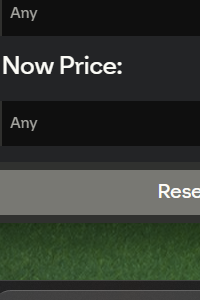
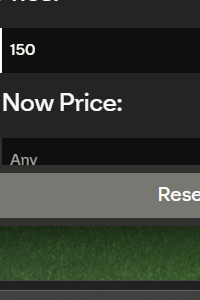
updated because ea changed the website zoom

diff --git a/before_website_change.py b/before_website_change.py
@@ -52,8 +52,8 @@ def main():
 
             time.sleep(get_random_time())
 
-            type_player_button_x = 950
-            type_player_button_y = 420
+            type_player_button_x = 970
+            type_player_button_y = 350
 
             pyautogui.click(type_player_button_x, type_player_button_y)
             pyautogui.typewrite(player_name)
@@ -61,7 +61,7 @@ def main():
             time.sleep(get_random_time())
 
             player_search_button_x = 970
-            player_search_button_y = 480
+            player_search_button_y = 430
 
             pyautogui.click(player_search_button_x, player_search_button_y)
 
@@ -76,37 +76,37 @@ def main():
                 time.sleep(get_random_time())
 
                 select_gold_button_x = 880
-                select_gold_button_y = 600
+                select_gold_button_y = 580
 
                 pyautogui.click(select_gold_button_x, select_gold_button_y)
 
                 time.sleep(get_random_time())
 
                 rarity_button_x = 1080
-                rarity_button_y = 450
+                rarity_button_y = 410
 
                 pyautogui.click(rarity_button_x, rarity_button_y)
 
                 time.sleep(get_random_time())
 
                 select_rare_rarity_button_x = 1080
-                select_rare_rarity_button_y = 550
+                select_rare_rarity_button_y = 540
 
                 pyautogui.click(select_rare_rarity_button_x, select_rare_rarity_button_y)
 
             time.sleep(get_random_time())
 
             minus_button_x = 500
-            minus_button_y = 770
+            minus_button_y = 750
 
             plus_button_x = 950
-            plus_button_y = 770
+            plus_button_y = 750
 
             go_back_button_x = 140
             go_back_button_y = 180
 
             min_bid_price_button_x = 580
-            min_bid_price_button_y = 770
+            min_bid_price_button_y = 750
 
             pyautogui.click(min_bid_price_button_x, min_bid_price_button_y)
             pyautogui.typewrite("150")
@@ -114,7 +114,7 @@ def main():
             time.sleep(get_random_time())
 
             max_buy_now_price_button_x = 1140
-            max_buy_now_price_button_y = 880
+            max_buy_now_price_button_y = 840
 
             pyautogui.click(max_buy_now_price_button_x, max_buy_now_price_button_y)
             pyautogui.typewrite(max_buy_now_price)
@@ -144,11 +144,11 @@ def main():
 
                 if not "No results" in ocr_result1:
                     buy_item_button_x = 1400
-                    buy_item_button_y = 750
+                    buy_item_button_y = 700
                     pyautogui.click(buy_item_button_x, buy_item_button_y)
 
                     get_item_button_x = 970
-                    get_item_button_y = 600
+                    get_item_button_y = 580
                     pyautogui.click(get_item_button_x, get_item_button_y)
 
                     now = datetime.now()

diff --git a/test.py b/test.py
@@ -19,22 +19,13 @@ def main():
 
         time.sleep(1)
 
-        center_x, center_y = (1920 // 2, 1080 // 2)
-        results__x, results__y = (center_x, center_y + 100)
-
-        check_search = pyautogui.screenshot(region=(results__x - 80, results__y - 10, 250, 100))
-        check_search.save("assets/check_search.png")
-
-        ocr_result1 = pytesseract.image_to_string("assets/check_search.png", config = "--psm 6")
-
-        if not "No results" in ocr_result1:
-            print("player found")
-        else:
-            print("player not found")
+        get_item_button_x = 970
+        get_item_button_y = 600
+        pyautogui.moveTo(get_item_button_x, get_item_button_y)
 
         time.sleep(1)
 
-        browser.minimize()
+        # browser.minimize()
 
 if __name__ == "__main__":
     main()
